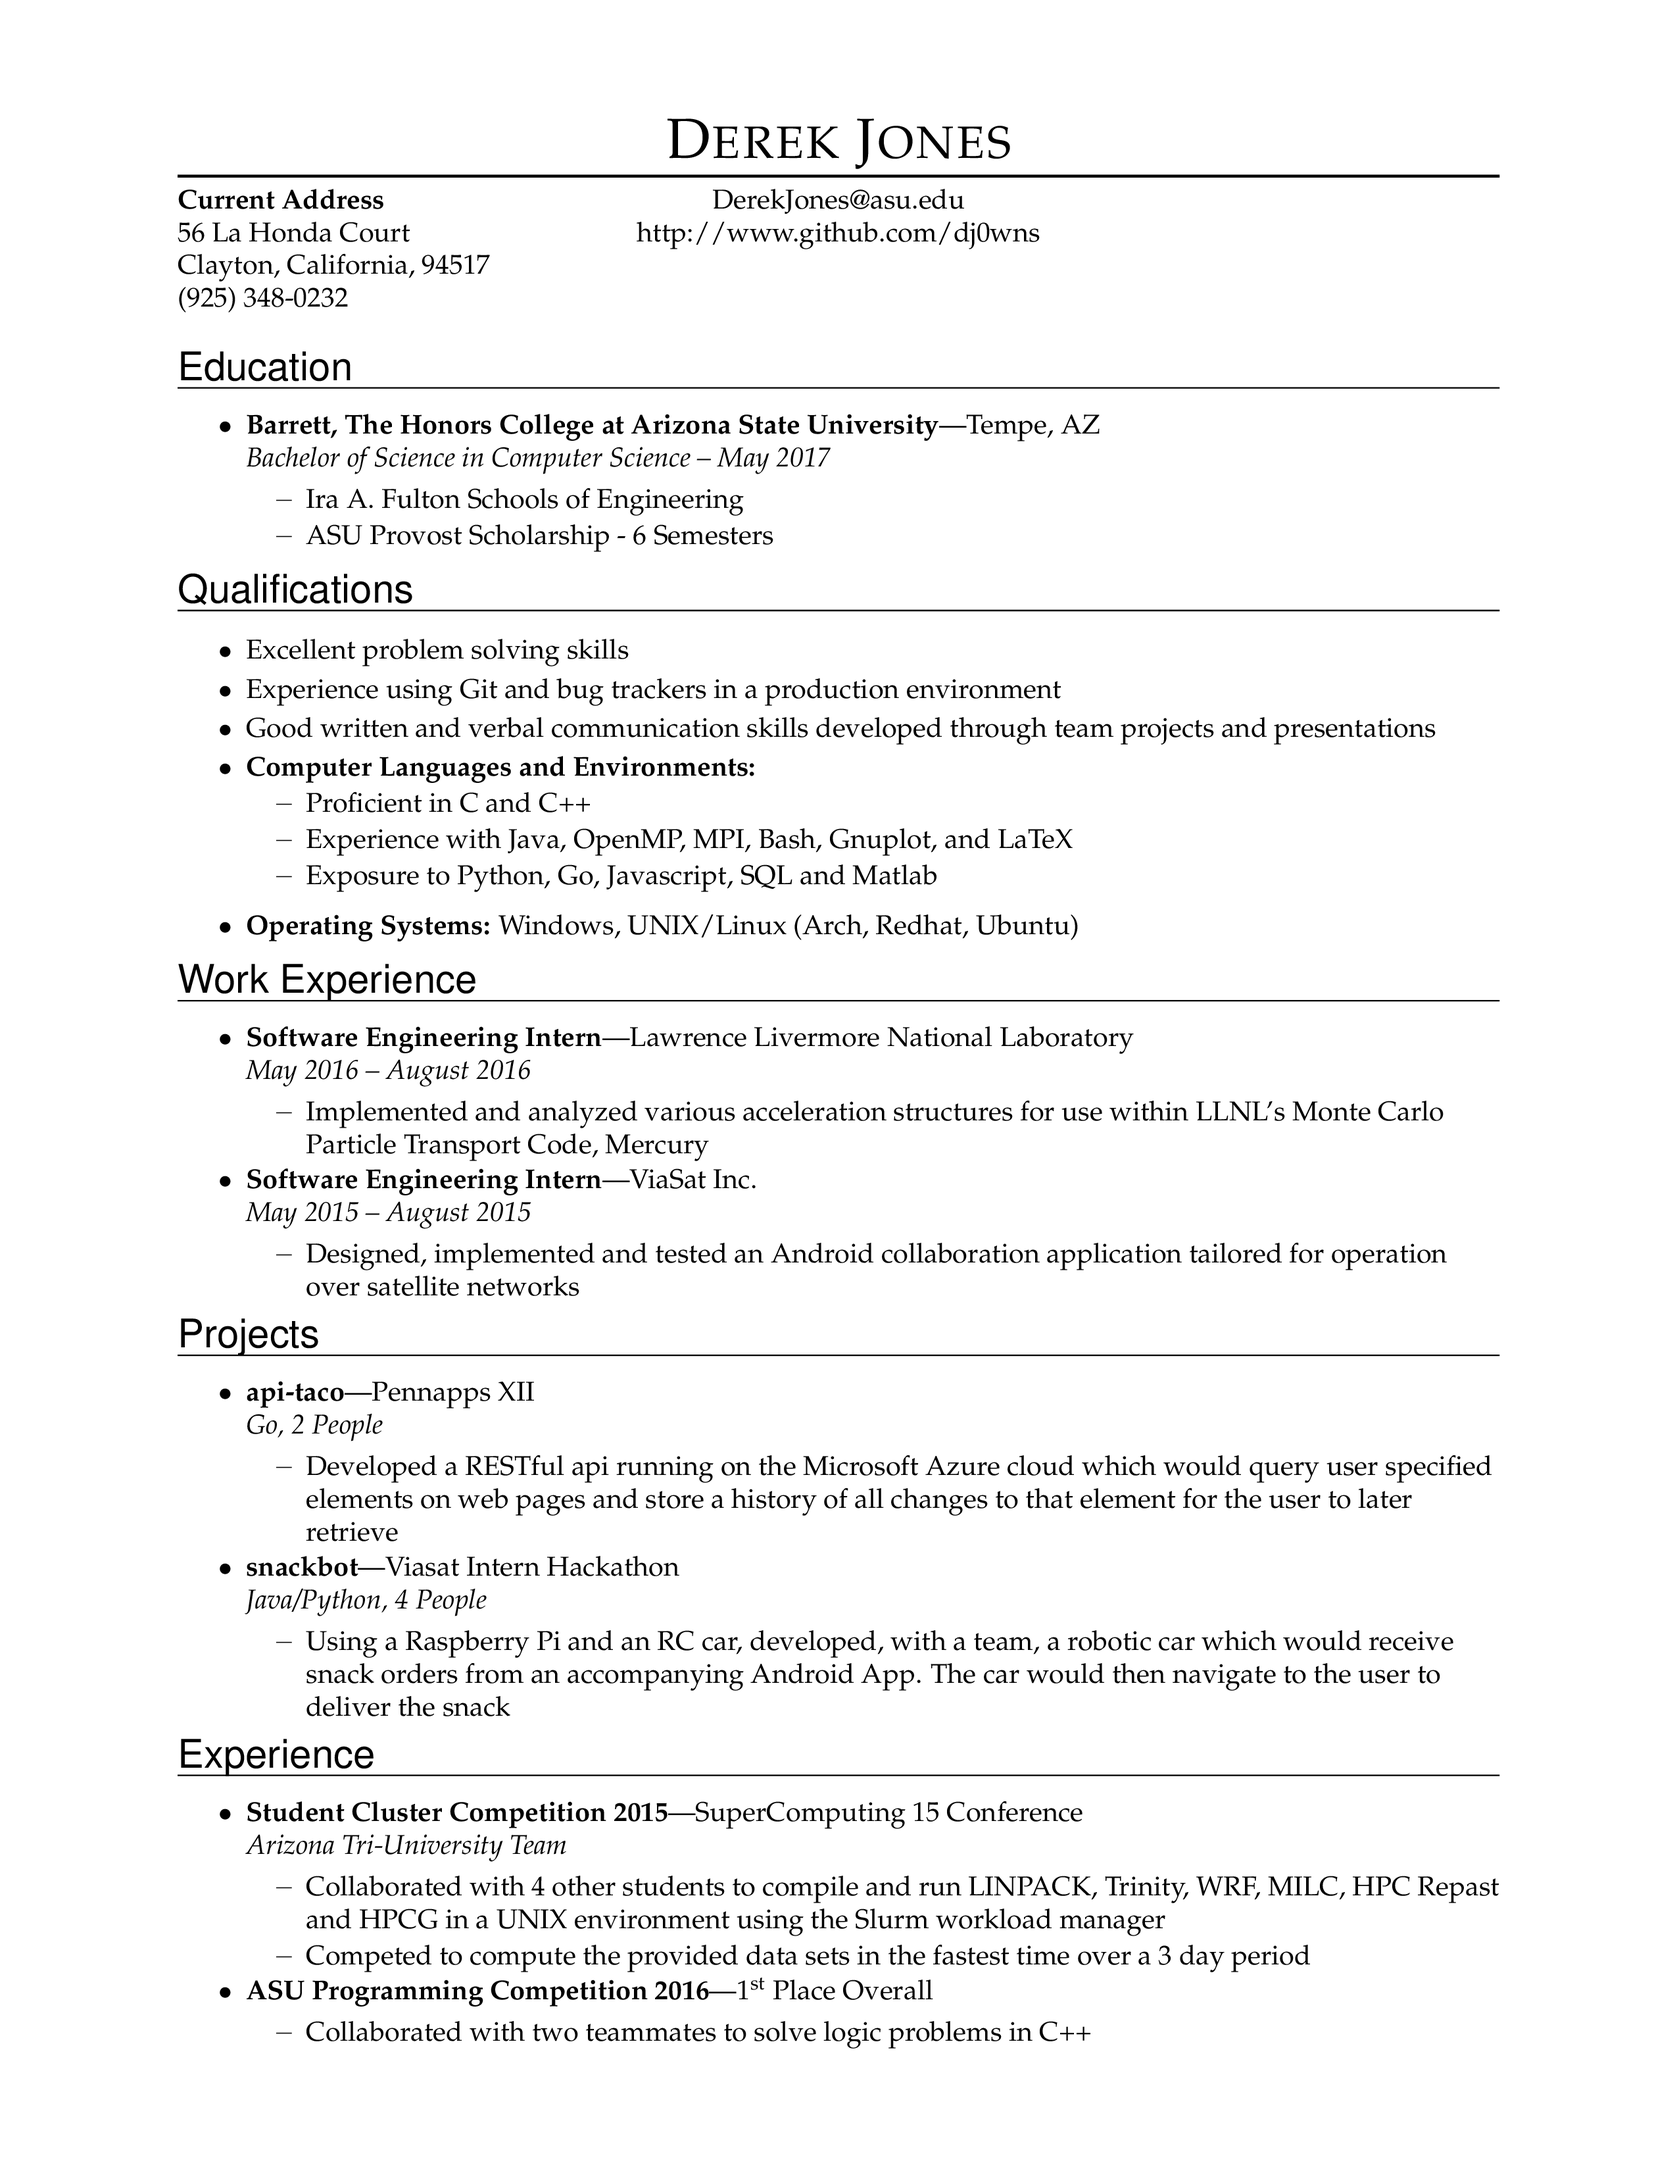
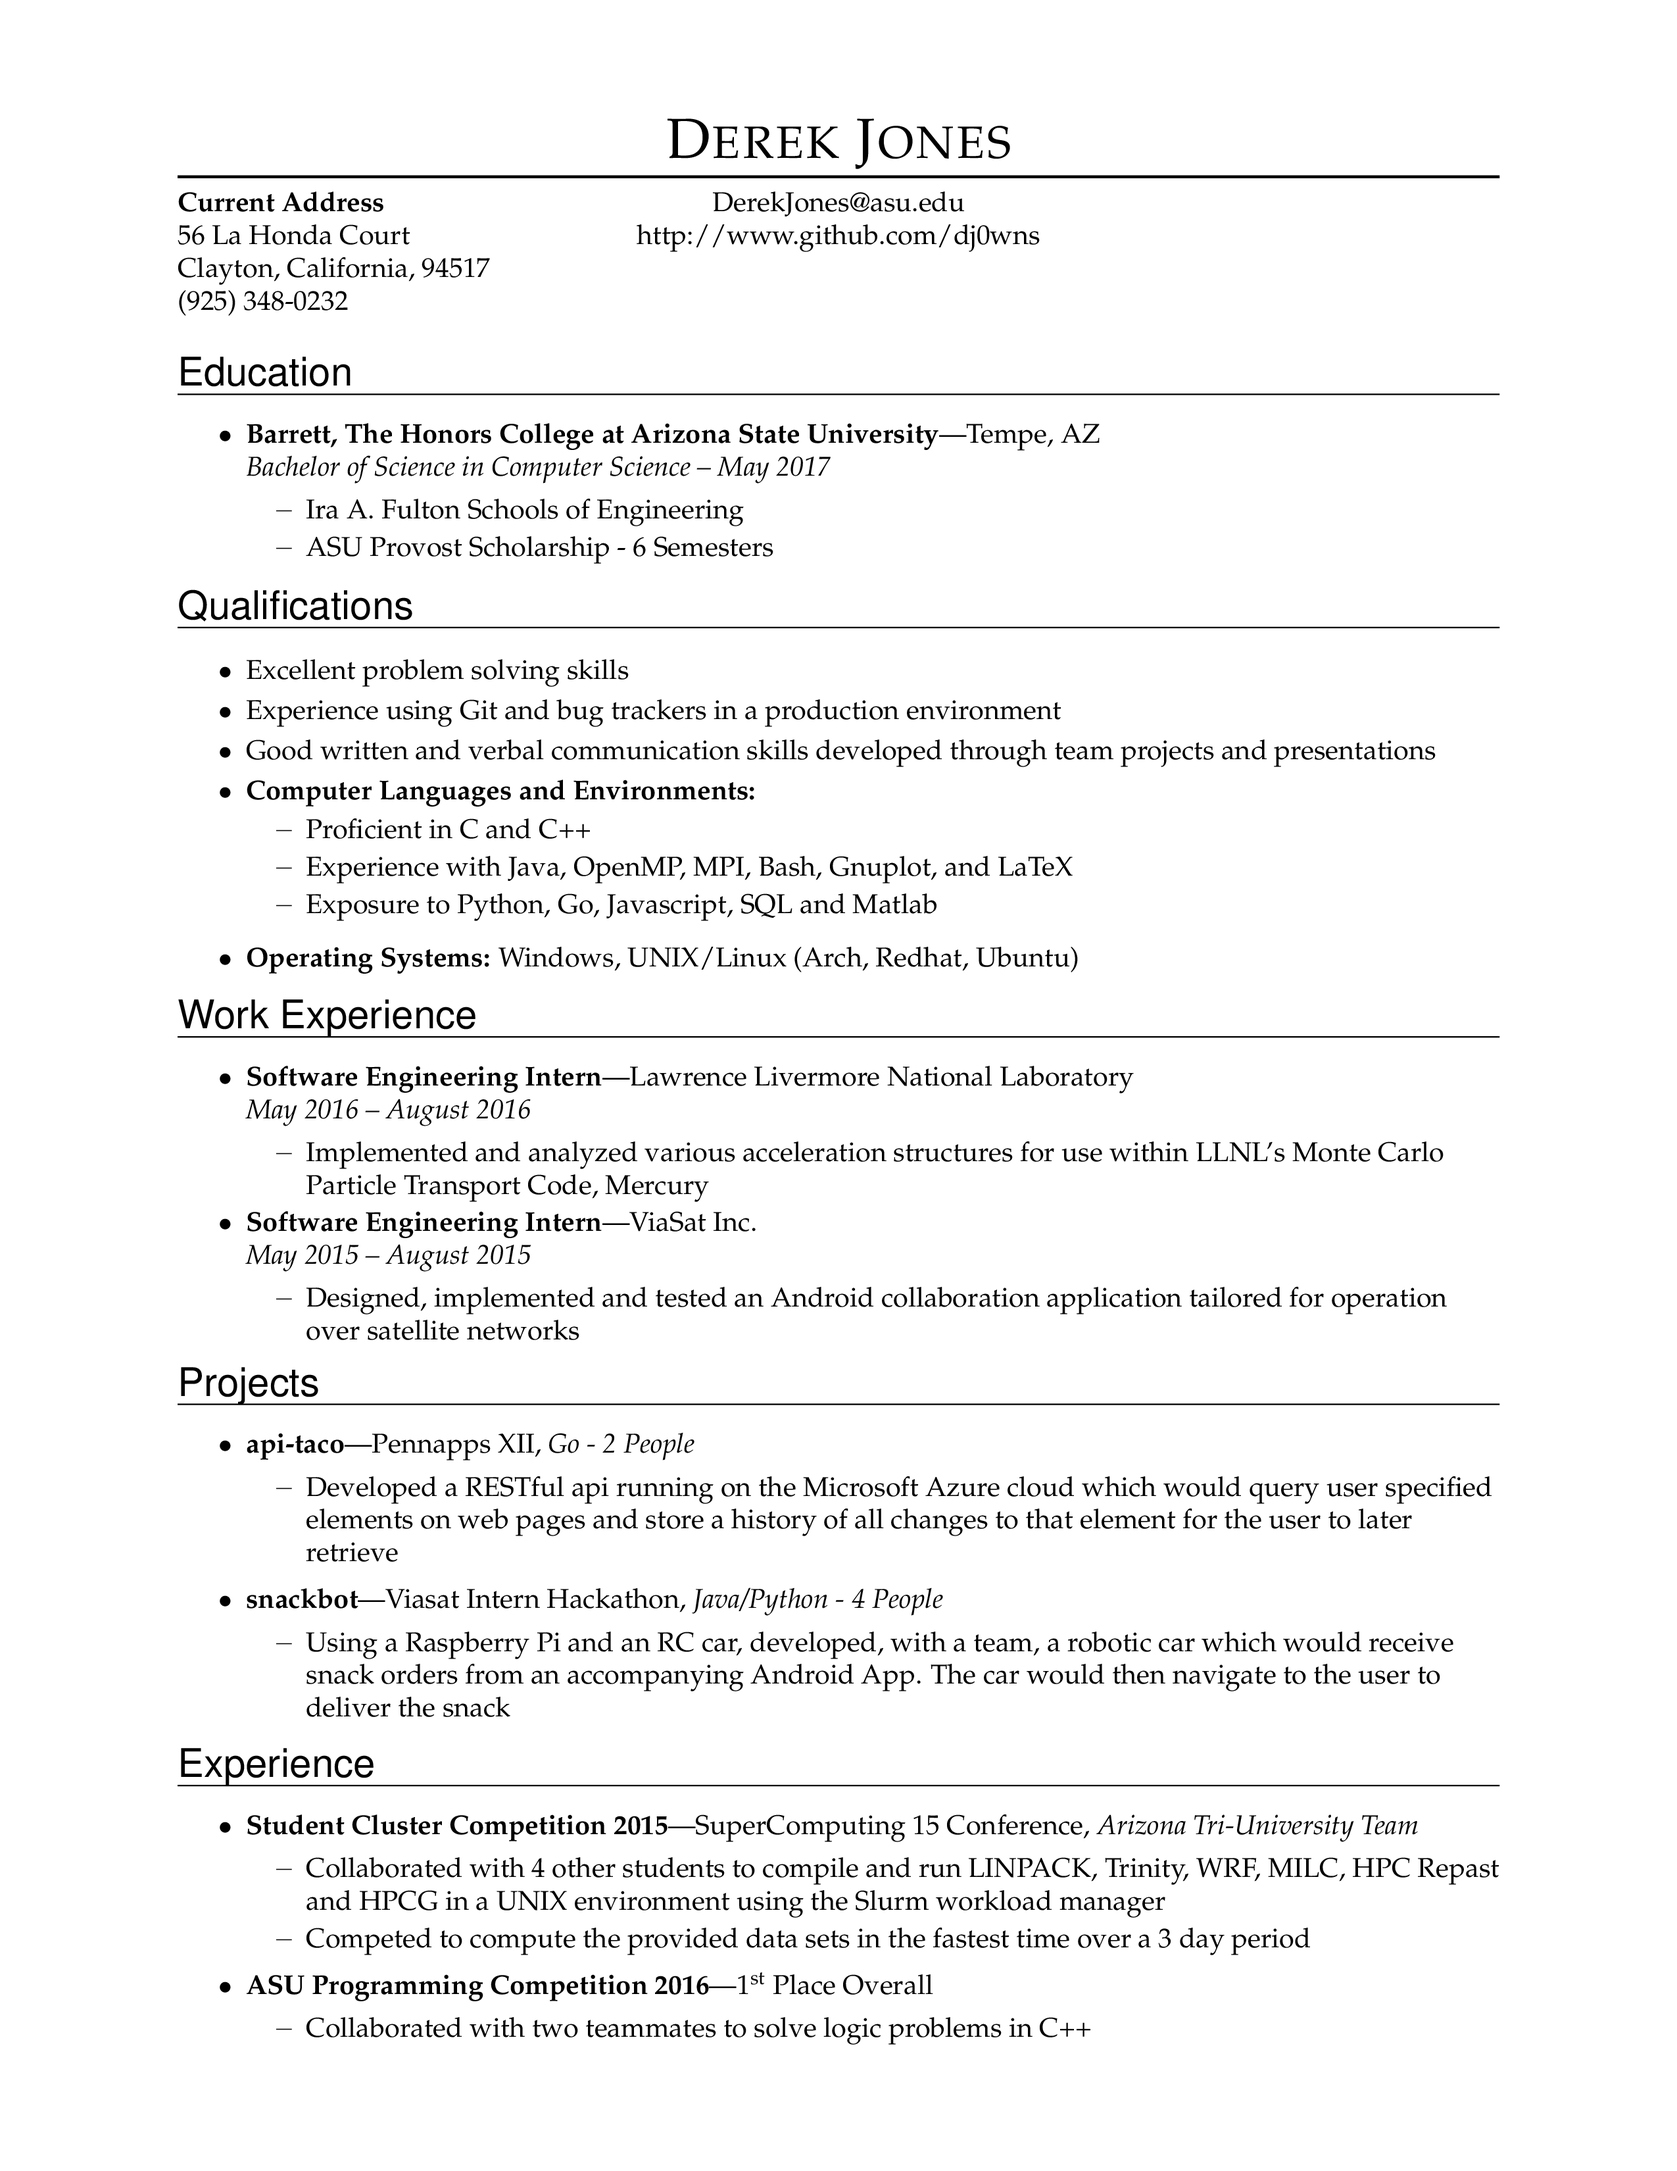
Added inline subsections

diff --git a/src/resume.tex b/src/resume.tex
@@ -68,6 +68,19 @@
 	%\item
 	\textbf{#1}---#2
 }
+
+% A resbigitem is a complex list element for stuff like jobs and education:
+%  Arg 1: Name of company or university
+%  Arg 2: Location
+%  Arg 3: Title and/or date range
+\newcommand{\resbigitemline}[3]{
+	\vspace{-5pt}
+	\item
+	%\item
+	\textbf{#1}---#2, 
+	\textit{#3}
+}
+
 % A resbigitem is a complex list element for stuff like jobs and education:
 %  Arg 1: Name of company or university
 %  Arg 2: Location
@@ -104,9 +117,9 @@
 	\end{itemize}
 }
 
-%This is a list that just has the italic extras
-\newenvironment{ressubsec2}[1]{
-	\resititem{#1}
+%List with inline resbigitem
+\newenvironment{ressubsecline}[3]{
+	\resbigitemline{#1}{#2}{#3}
 	\vspace{-2pt}
 	\begin{itemize}
 }{
@@ -230,22 +243,22 @@
 \end{ressection}
 
 \begin{ressection}{Projects}
-	\begin{ressubsec}{api-taco}{Pennapps XII}{Go, 2 People}
+	\begin{ressubsecline}{api-taco}{Pennapps XII}{Go - 2 People}
 		\ressubitem{Developed a RESTful api running on the Microsoft Azure cloud which would query user specified
 		elements on web pages and store a history of all changes to that element for the user to later retrieve}
-	\end{ressubsec}
-	\begin{ressubsec}{snackbot}{Viasat Intern Hackathon}{Java/Python, 4 People}
+	\end{ressubsecline}
+	\begin{ressubsecline}{snackbot}{Viasat Intern Hackathon}{Java/Python - 4 People}
 		\ressubitem{Using a Raspberry Pi and an RC car, developed, with a team, a robotic car which would receive snack
 		orders from an accompanying Android App. The car would then navigate to the user to deliver the snack}
-	\end{ressubsec}
+	\end{ressubsecline}
 \end{ressection}
 
 \begin{ressection}{Experience}
-	\begin{ressubsec}{Student Cluster Competition 2015}{SuperComputing 15 Conference}{Arizona Tri-University Team}
+	\begin{ressubsecline}{Student Cluster Competition 2015}{SuperComputing 15 Conference}{Arizona Tri-University Team}
 		\ressubitem{Collaborated with 4 other students to compile and run LINPACK, Trinity, WRF, MILC, HPC Repast and
 		HPCG in a UNIX environment using the Slurm workload manager}
 		\ressubitem{Competed to compute the provided data sets in the fastest time over a 3 day period}
-	\end{ressubsec}
+	\end{ressubsecline}
 	\begin{ressubsecshort}{ASU Programming Competition 2016}{1\textsuperscript{st} Place Overall}
 		\ressubitem{Collaborated with two teammates to solve logic problems in C++}
 	\end{ressubsecshort}
